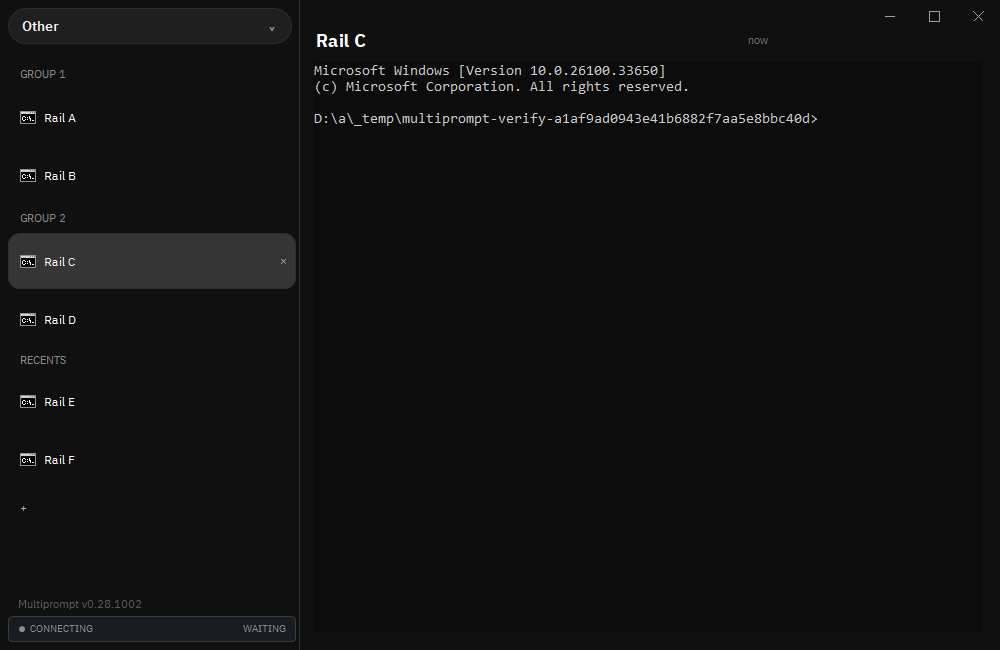
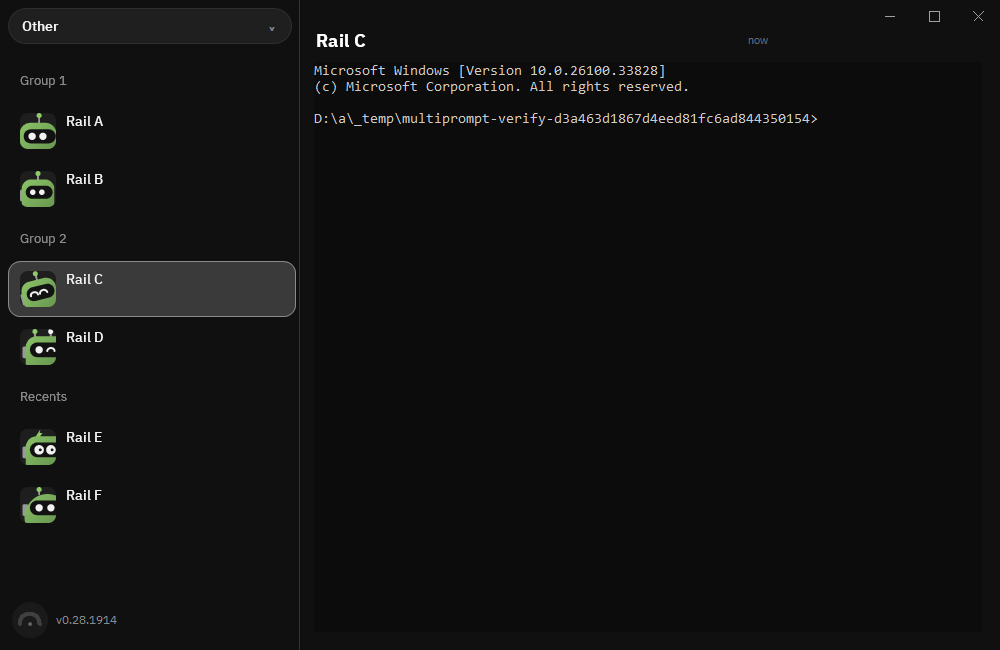
MUBO-263: The appearance check matches today's app (#1344)
The appearance journey's workspace-focus check and group-rail pixel fixtures match the app after SOFT-2380, so the journey stops failing on master and every PR.

Proof: pstack-verifier PASS+NOTES at 6a9e31fd7, all checks green, group-rail journey green; appearance journey dispatched at head passed (run 45346293637), where master's was red.

Undo: git revert this commit.

diff --git a/tools/verify-chat-delivery.test.js b/tools/verify-chat-delivery.test.js
@@ -200,10 +200,13 @@ test('811 rejects both channel scenarios while master and 821 admit them before 
     assert.equal(ready(true, true, true, true, true, true), ref !== 'v0.28.811', `${ref} busy channel`);
     assert.equal(ready(true, true, false, false, false, true), ref !== 'v0.28.811', `${ref} suggested input channel`);
     assert.equal(ready(false, true, false, false, false, true), false, `${ref} uncovered local suggestion gap`);
-    assert.match(text, /\.op = "send"[\s\S]*chatHistoryPersistent\(job.key.host/);
+    assert.match(text, ref === 'master'
+      ? /\.op = "send"[\s\S]*chatHistoryPersistent\(job\.key\.checked\(\) orelse return/
+      : /\.op = "send"[\s\S]*chatHistoryPersistent\(job\.key\.host/,
+    `${ref} send op persists the history of the chat it was addressed to`);
     if (ref !== 'v0.28.811') assert.match(text, /"send_queued"/);
   }
-  assert.match(master, /if \(entry.steer_pending\)|if \(!entry.steer_pending\)/);
+  assert.match(master, /if \(!app_state\.g_chat_outbox\.items\[ei\]\.steer_pending\) return;/);
   assert.match(master, /chatSteerAfterDelivery\(idx, i\)/);
   const reader = execFileSync('git', ['show', `${masterRef}:src/chat_history_reader.py`], { cwd: root, encoding: 'utf8' });
   assert.match(reader, /keys = \["C-x", "C-s"\] if op == "send_queued"/);

diff --git a/tools/chat-focus.test.js b/tools/chat-focus.test.js
@@ -21,7 +21,14 @@ const main = read('src/main.zig');
 const composer = read('src/chat_composer.zig');
 const driver = read(skill + 'control.ps1');
 const workflow = read('.github/workflows/verify.yml');
-const recipe = driver.slice(driver.indexOf("        'chat-focus' {"), driver.indexOf("        'appearance' {\n            Select-Theme"));
+
+function journeyRecipe(name) {
+  const start = driver.indexOf(`        '${name}' {`);
+  const end = start < 0 ? -1 : driver.slice(start + 1).search(/\n        '[a-z0-9-]+' \{/);
+  assert.ok(start >= 0 && end > 0, `journey ${name} must sit in the driver switch`);
+  return driver.slice(start, start + 1 + end);
+}
+const recipe = journeyRecipe('chat-focus');
 
 function body(source, name) {
   const start = source.indexOf(`fn ${name}(`);

diff --git a/.claude/skills/verify-multiprompt/features/group-rail.md b/.claude/skills/verify-multiprompt/features/group-rail.md
@@ -1,6 +1,6 @@
 # Group headlines
 
-Source files: src/workspaces.zig, src/workspace*, src/session.zig, src/sidebar.zig, src/group*, src/main.zig, build.zig, build.zig.zon, src/command_palette.zig, src/shortcuts.zig, .claude/skills/verify-multiprompt/control-feature-group-rail.ps1
+Source files: src/workspaces.zig, src/workspace*, src/session.zig, src/sidebar.zig, src/group*, src/main.zig, build.zig, build.zig.zon, src/command_palette.zig, src/shortcuts.zig, .claude/skills/verify-multiprompt/control-feature-group-rail.ps1, tools/fixtures/IGSH-1150/*
 
 Verify on: push
 
